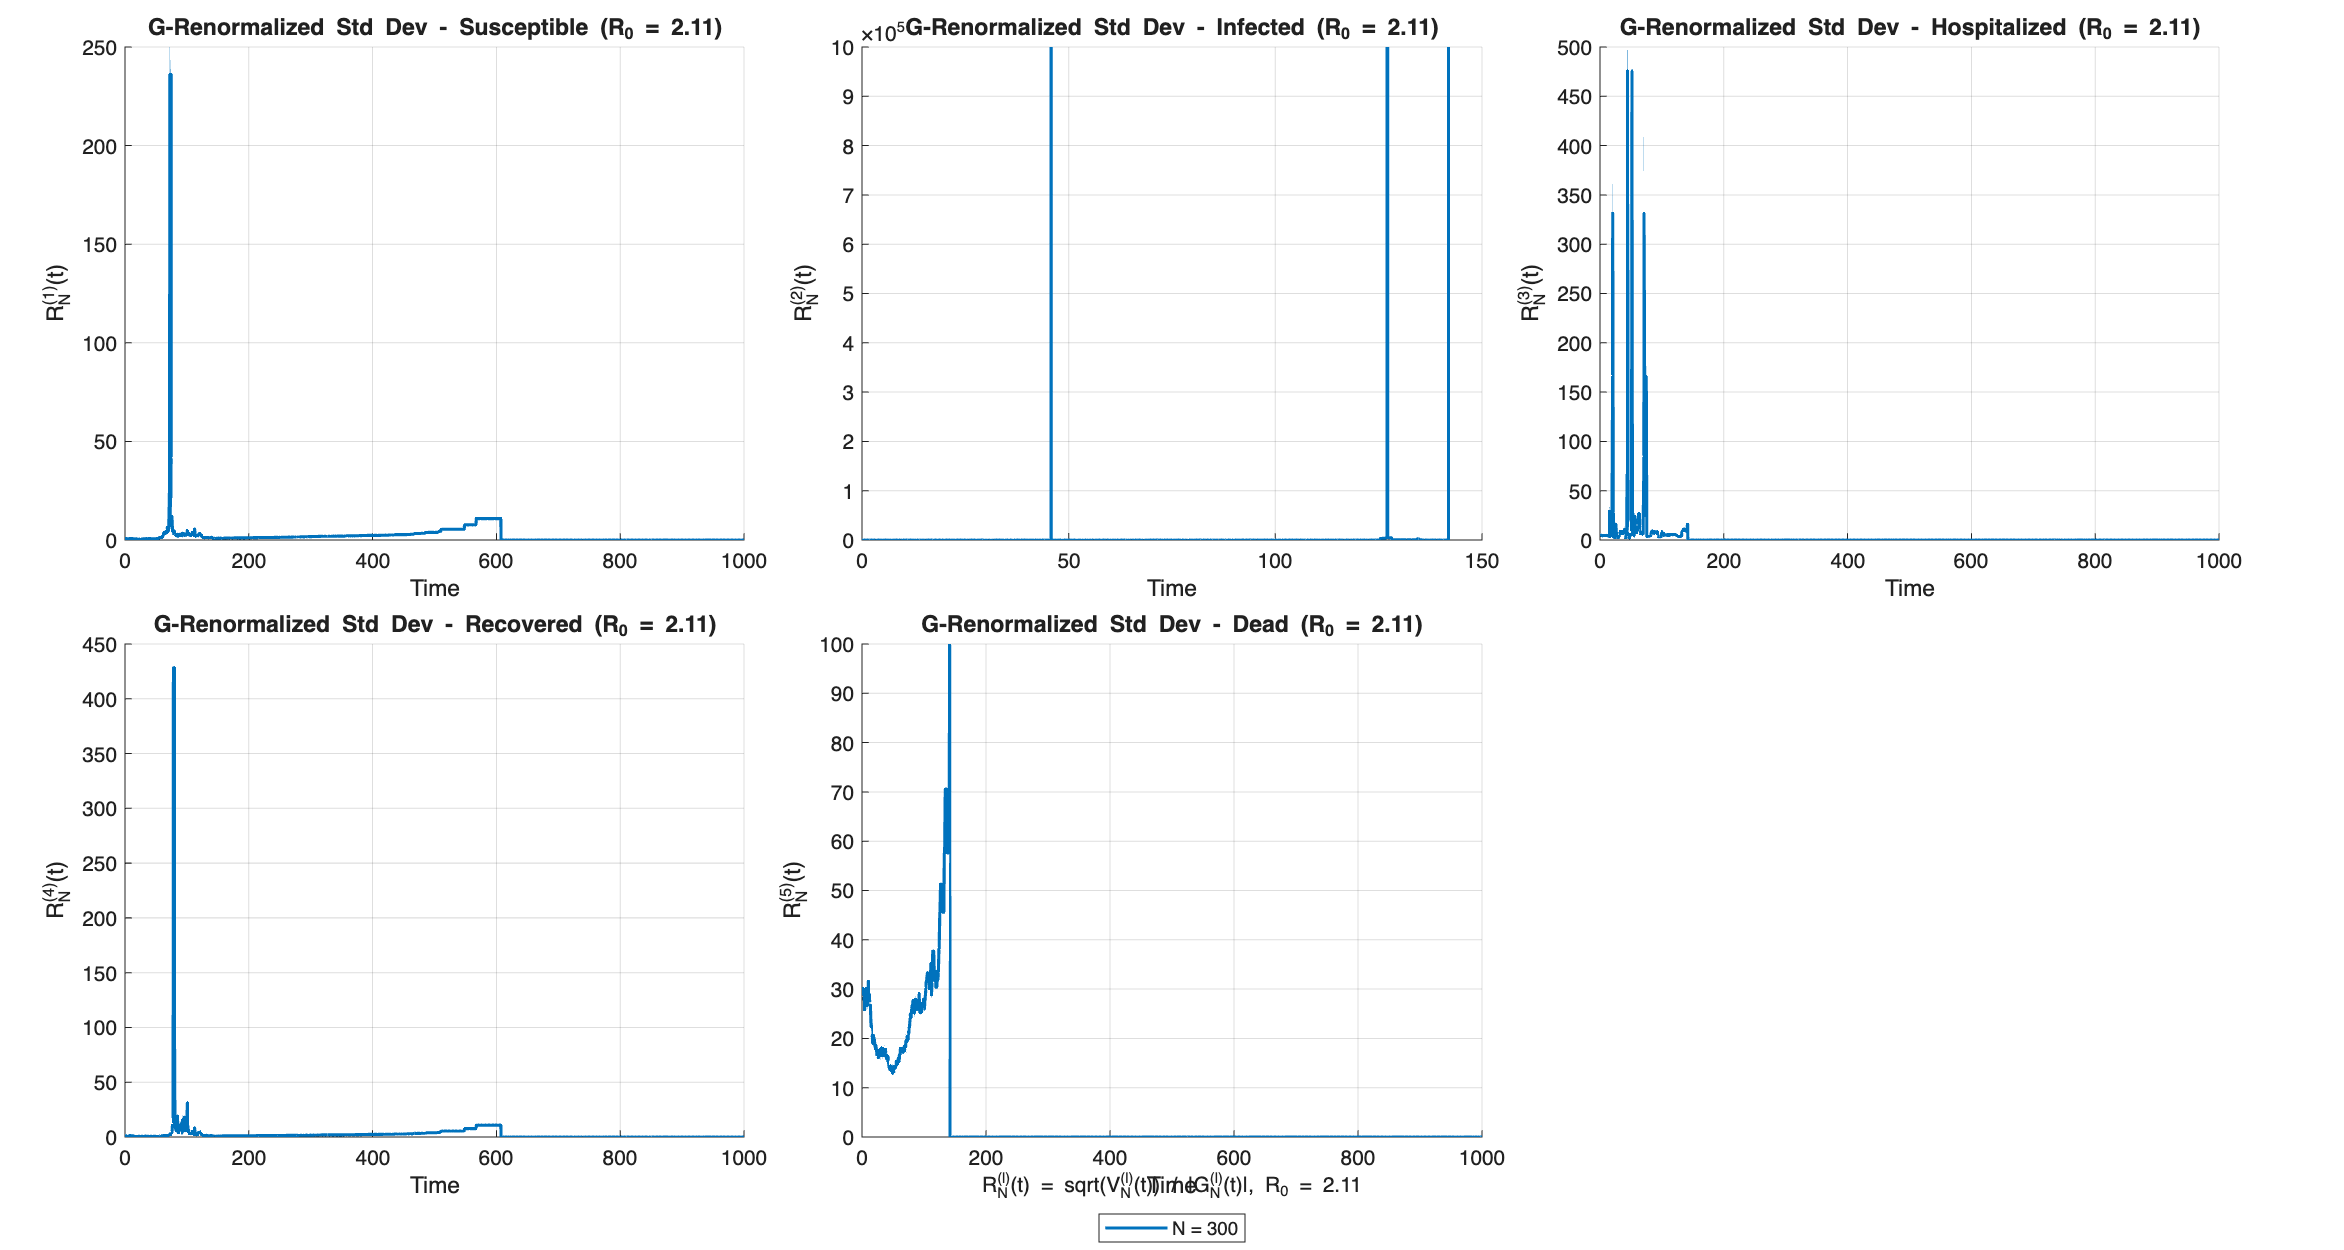
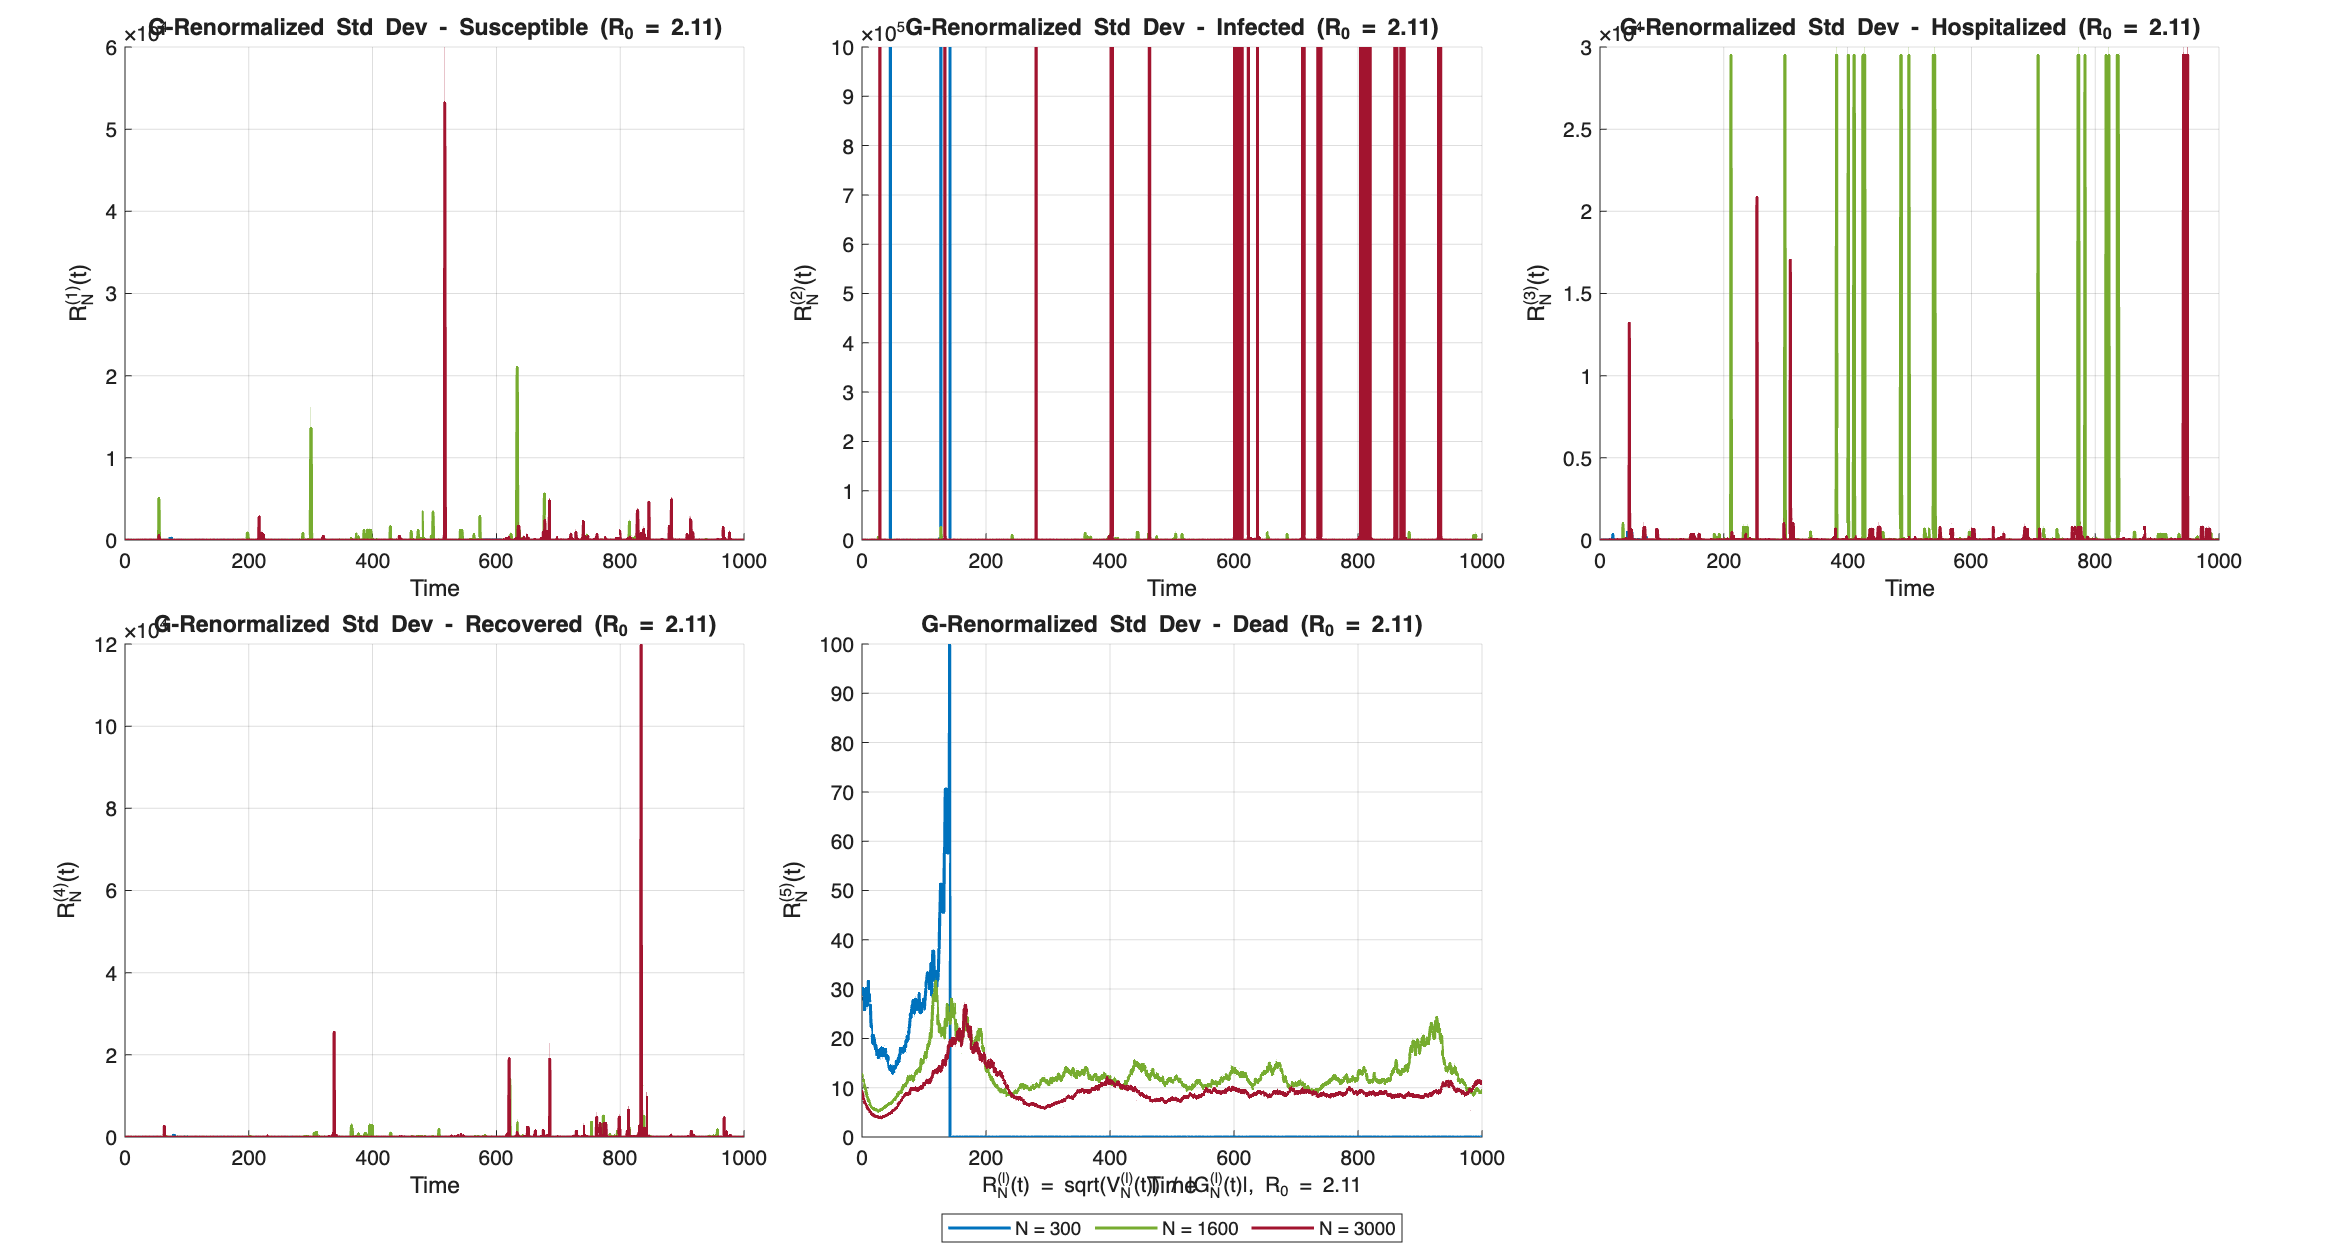
Updated the code for cumulative R and R to plot 3 different population's respective compartment plots

diff --git a/SIHRS/SIHRS_main_code/Matlab/SIHRS_cumulative_R_analysis.m b/SIHRS/SIHRS_main_code/Matlab/SIHRS_cumulative_R_analysis.m
@@ -33,7 +33,7 @@ function sihrs_cumulative_R_analysis()
     params.lambda = 0.0083;        % Recovered to susceptible rate (Λ > 0)
     params.T = 1000;               % Total simulation time
     params.dt = 0.01;             % Time step for integration
-    params.N_values = [300]; % Multiple population sizes for comparison
+    params.N_values = [300,1600,3000]; % Multiple population sizes for comparison
     params.initial_s = 0.96;       % Initial susceptible fraction
     params.initial_i = 0.04;       % Initial infected fraction
     params.initial_h = 0;          % Initial hospitalized fraction

diff --git a/SIHRS/SIHRS_main_code/Matlab/disp_SIHRS_G_renormalized.m b/SIHRS/SIHRS_main_code/Matlab/disp_SIHRS_G_renormalized.m
@@ -44,7 +44,7 @@ function sihrs_G_renormalized_simulation()
     params.lambda = 0.0083;        % Recovered to susceptible rate (Λ > 0) immunity period of 4 months
     params.T = 1000;               % Total simulation time
     params.dt = 0.01;             % Finer time step for better blow-up capture
-    params.N_values = [300]; 
+    params.N_values = [300,1600,3000]; 
     params.initial_s = 0.96;       % Initial susceptible fraction
     params.initial_i = 0.04;       % Initial infected fraction
     params.initial_h = 0;          % Initial hospitalized fraction
